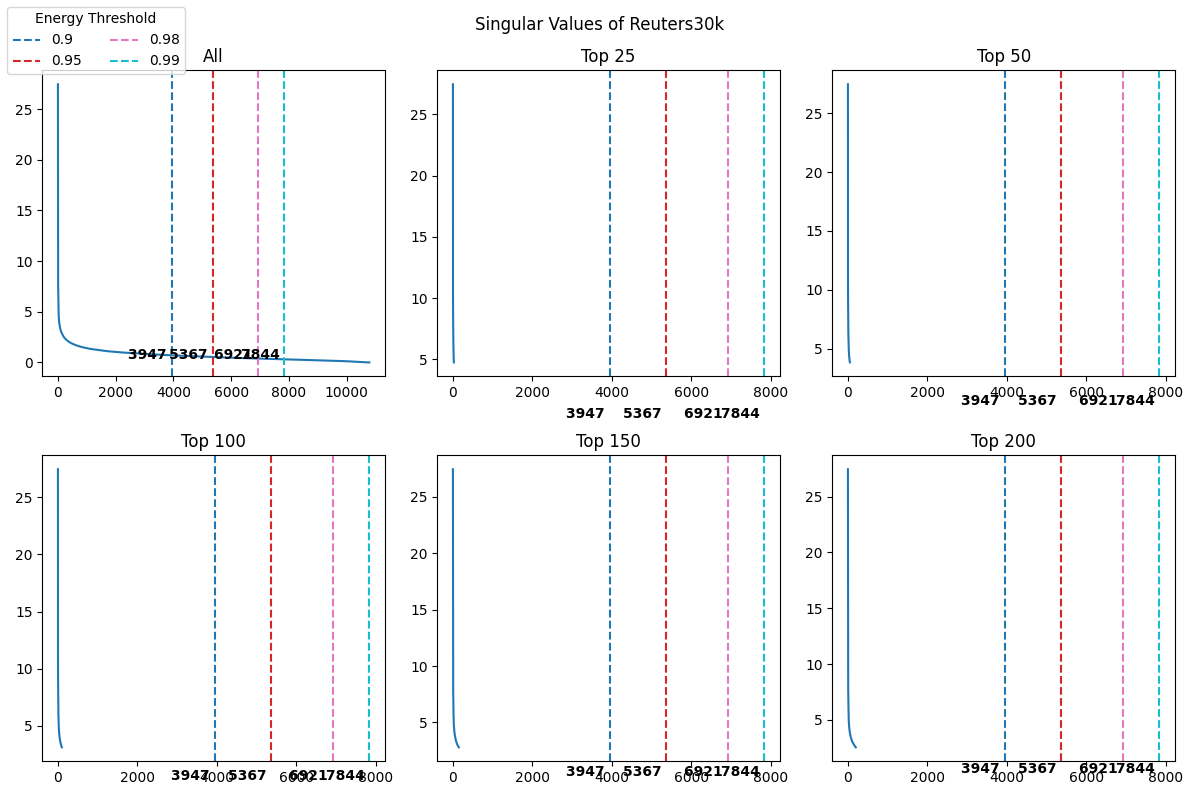
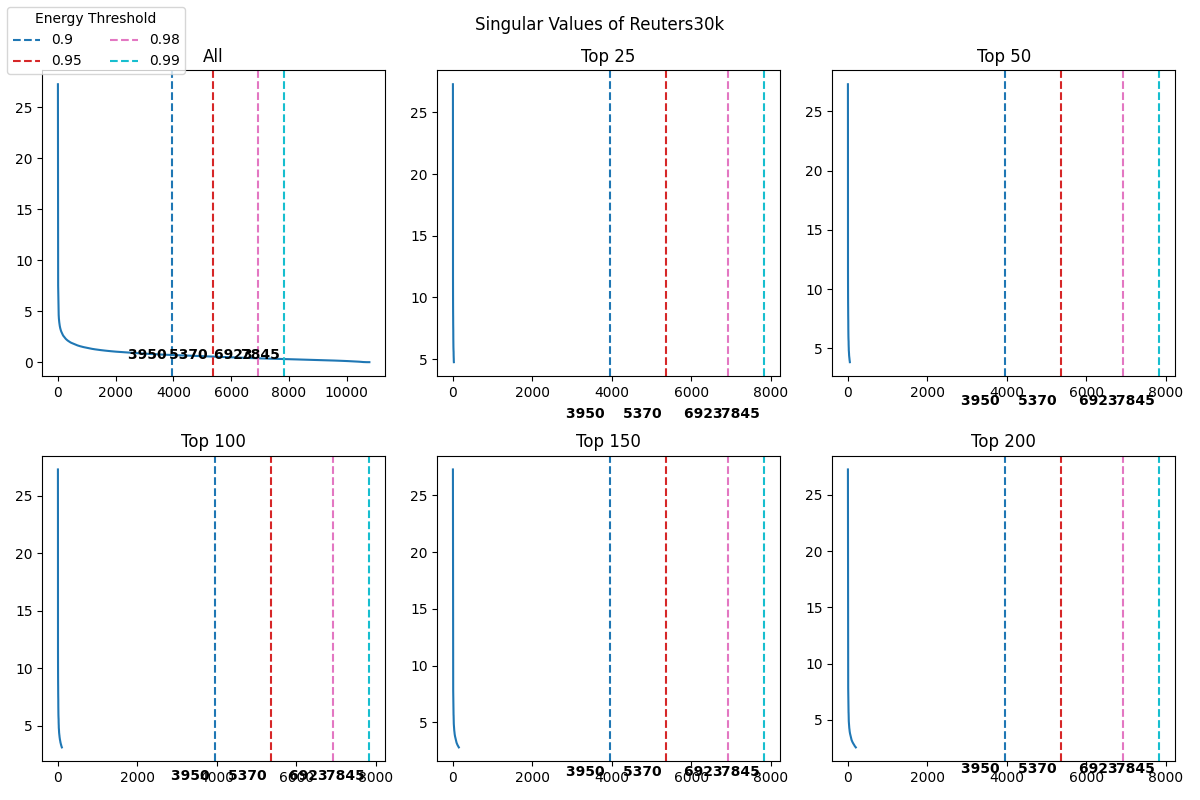
Added normalized data

diff --git a/Experiments/dimensionality_reduction_metrics/normalize_datasets.py b/Experiments/dimensionality_reduction_metrics/normalize_datasets.py
@@ -1,0 +1,49 @@
+import numpy as np
+import numpy.linalg as LA
+import math as m
+import os
+import argparse
+from metrics import distance_matrix
+from tqdm import tqdm
+from multiprocessing import cpu_count,Pool
+from sklearn.preprocessing import StandardScaler, normalize
+
+
+def parse_arguments():
+    parser=argparse.ArgumentParser(description='Compute and save distance matrices')
+    parser.add_argument('--save_dir', '-s', help='Path to the directory where the normalized datasets are to be saved', default='./normalized_data')
+    parser.add_argument('--datasets', '-d', nargs='+', help='List of names of the dataset')
+    # parser.add_argument('--sample_sizes', nargs='+', help='List of sample sizes of each dataset')
+    parser.add_argument('--data_dir', help='Directory of the dataset', default='./datasets')
+    args=parser.parse_args()
+    return args
+
+
+def normalize_and_save(dataset:str, DATA_DIR:str, SAVE_DIR:str):
+    X=np.load(os.path.join(DATA_DIR,dataset,'X.npy'),allow_pickle=True)
+    scaler=StandardScaler()
+    X=scaler.fit_transform(X.T)
+    X=X.T
+    X=normalize(X,norm='l2')
+    if not os.path.exists(os.path.join(SAVE_DIR,f'{dataset}')):
+        os.mkdir(os.path.join(SAVE_DIR,f'{dataset}'))
+    np.save(os.path.join(SAVE_DIR,f'{dataset}','X.npy'),X)
+    print(f'Saved {dataset}')
+
+
+def main():
+    args=parse_arguments()
+    
+    num_cores=cpu_count()
+    pool=Pool(processes=num_cores)
+
+    results=[pool.apply_async(normalize_and_save, args=(dataset,args.data_dir,args.save_dir)) for dataset in args.datasets]
+
+    for result in results:
+        result.wait()
+    
+    pool.close()
+    pool.join()
+
+if __name__=="__main__":
+    main()

diff --git a/Experiments/dimensionality_reduction_metrics/compute_spectral_plot.py b/Experiments/dimensionality_reduction_metrics/compute_spectral_plot.py
@@ -111,14 +111,25 @@ def main():
 
     energy_threshold=[float(x) for x in args.energy_threshold.split()]
 
-    if args.datasets[0].lower()=='all':
+    if args.datasets.lower()=='all':
         datasets=os.listdir(args.data_dir)
     else:
         datasets=args.datasets
-    pbar=tqdm(datasets)
-    for dataset in pbar:
-        pbar.set_description(f'Plotting {dataset}...')
-        plot_data(dataset, args.data_dir, args.save_dir,args.singular_dir,energy_threshold)
+    pbar=tqdm(datasets, desc='Plotting')
+    # for dataset in pbar:
+    #     pbar.set_description(f'Plotting {dataset}...')
+    #     plot_data(dataset, args.data_dir, args.save_dir,args.singular_dir,energy_threshold)
+
+    num_cores=cpu_count()
+    pool=Pool(processes=num_cores)
+
+    results=[pool.apply_async(plot_data, args=(dataset,args.data_dir,args.save_dir,args.singular_dir,energy_threshold)) for dataset in pbar]
+
+    for result in results:
+        result.wait()
+    pool.close()
+    pool.join()
+
 
 if __name__=="__main__":
     main()
